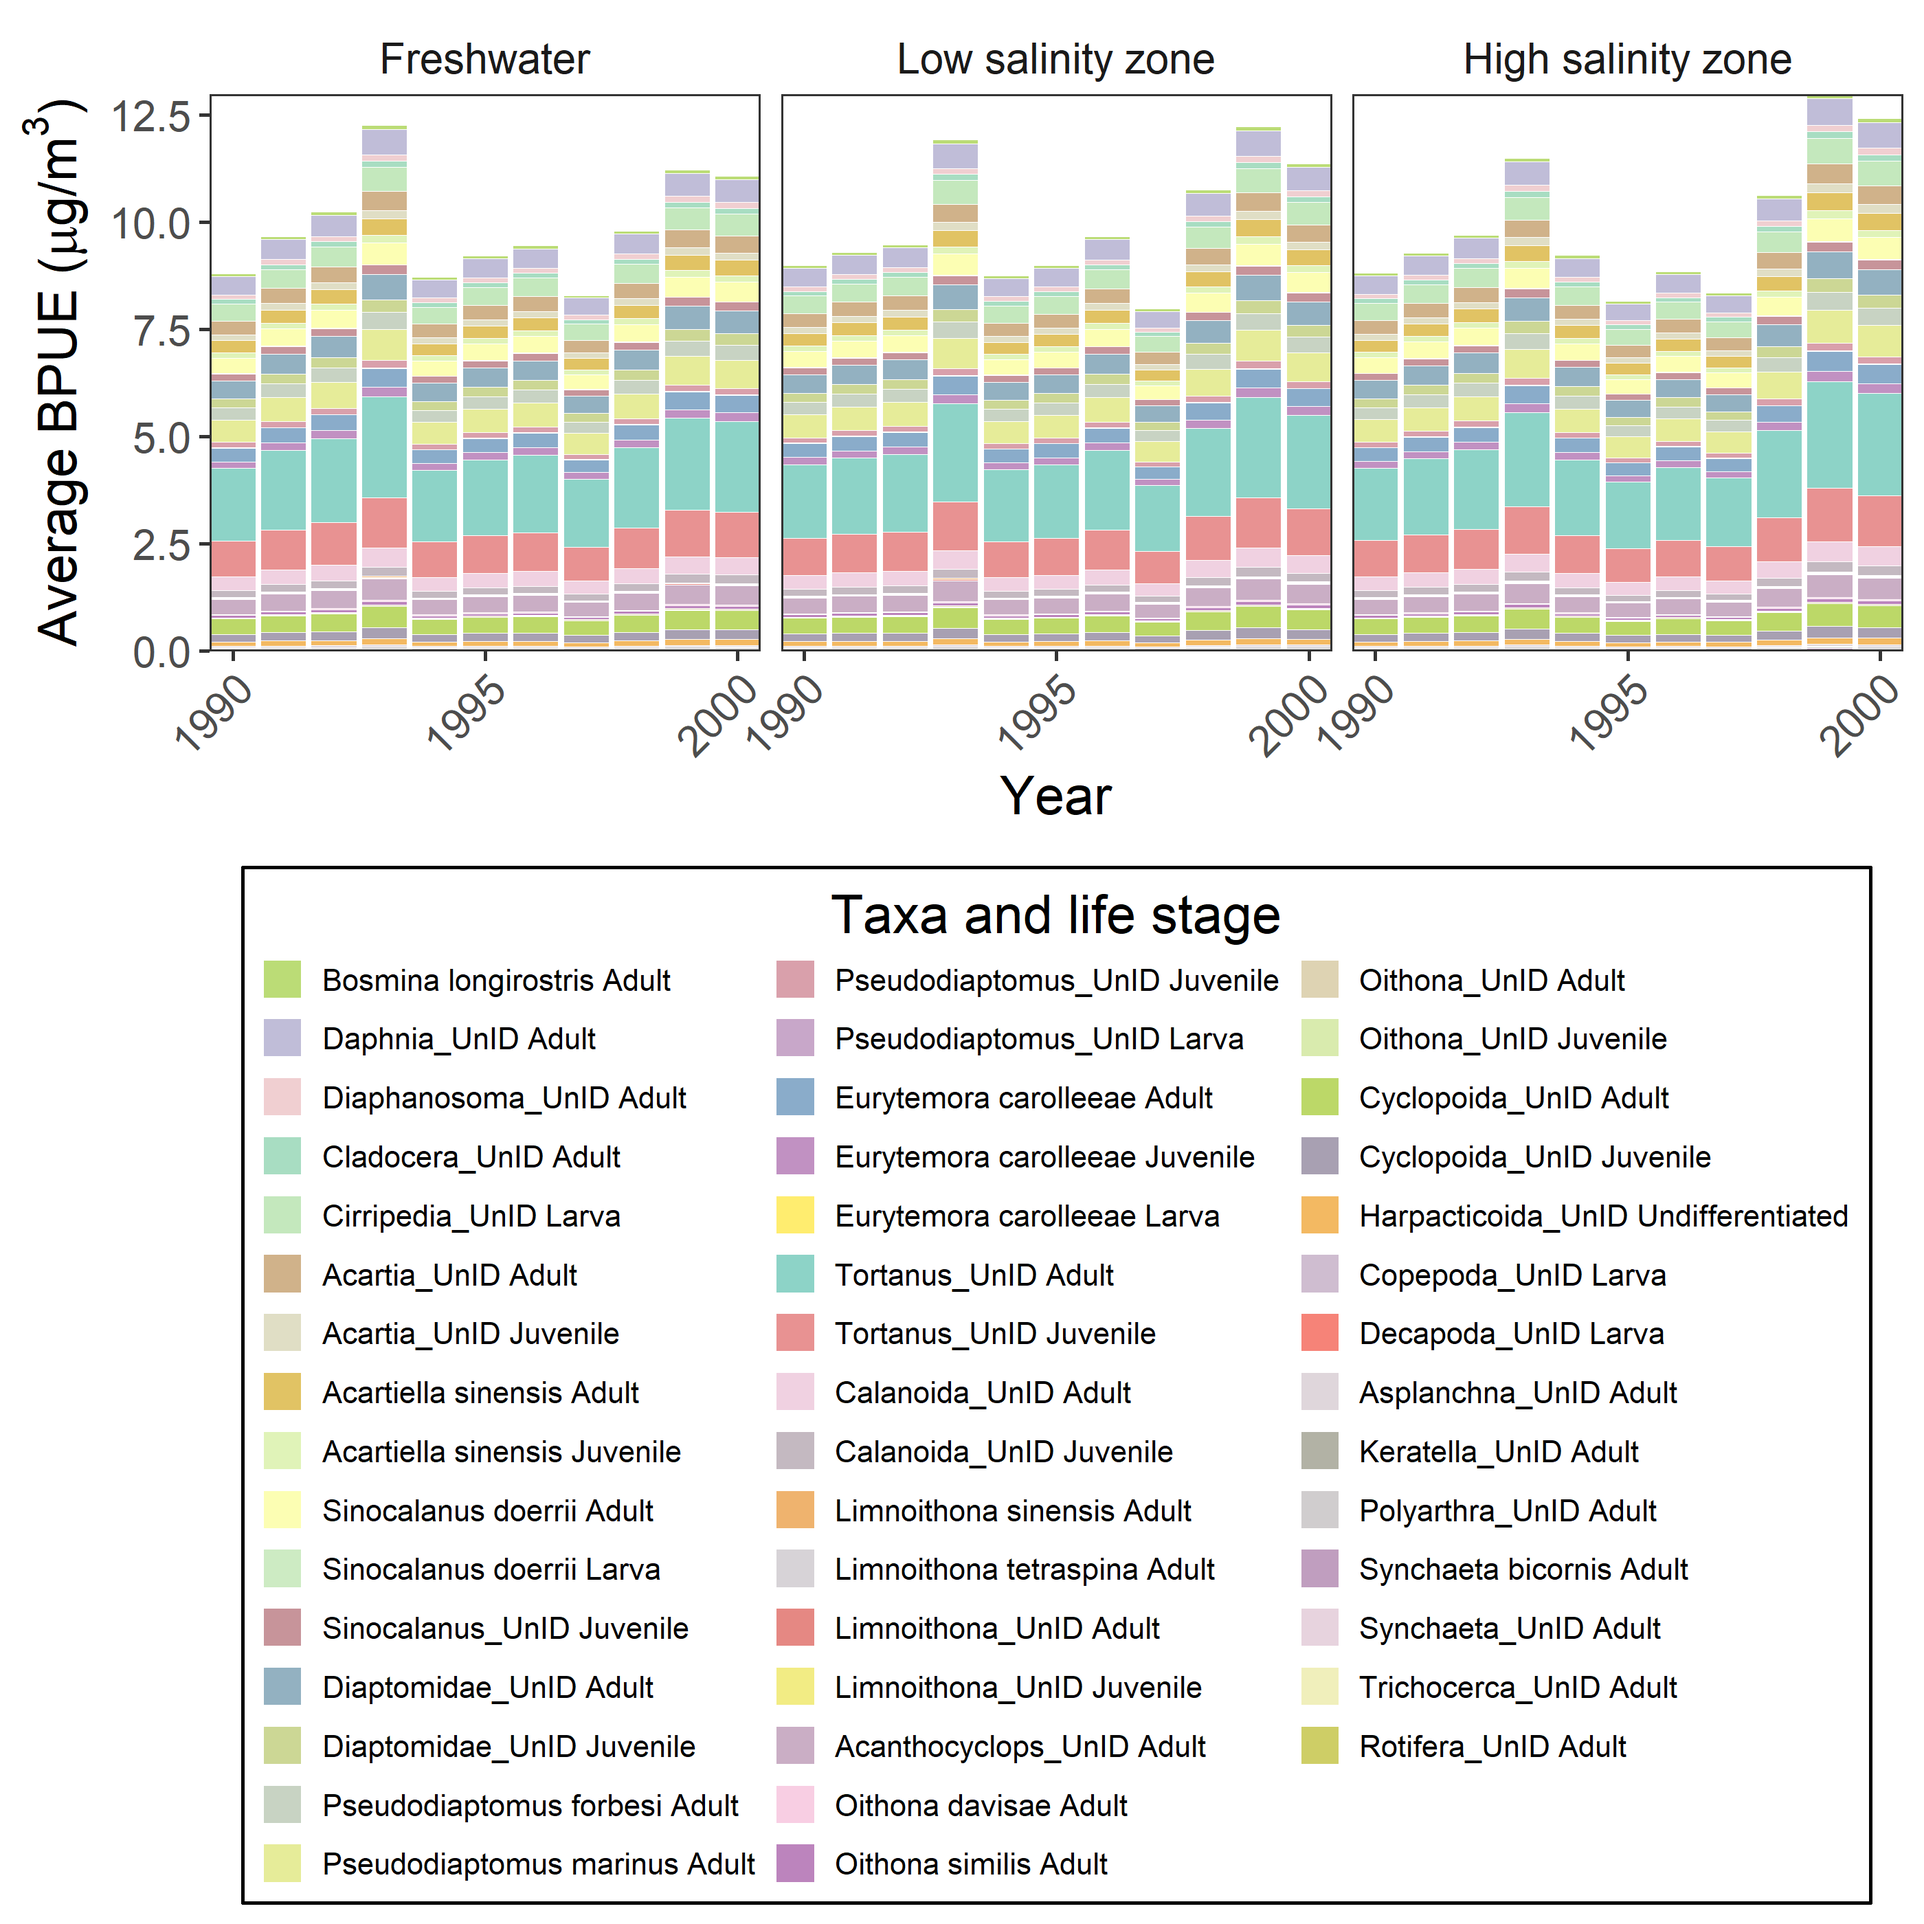
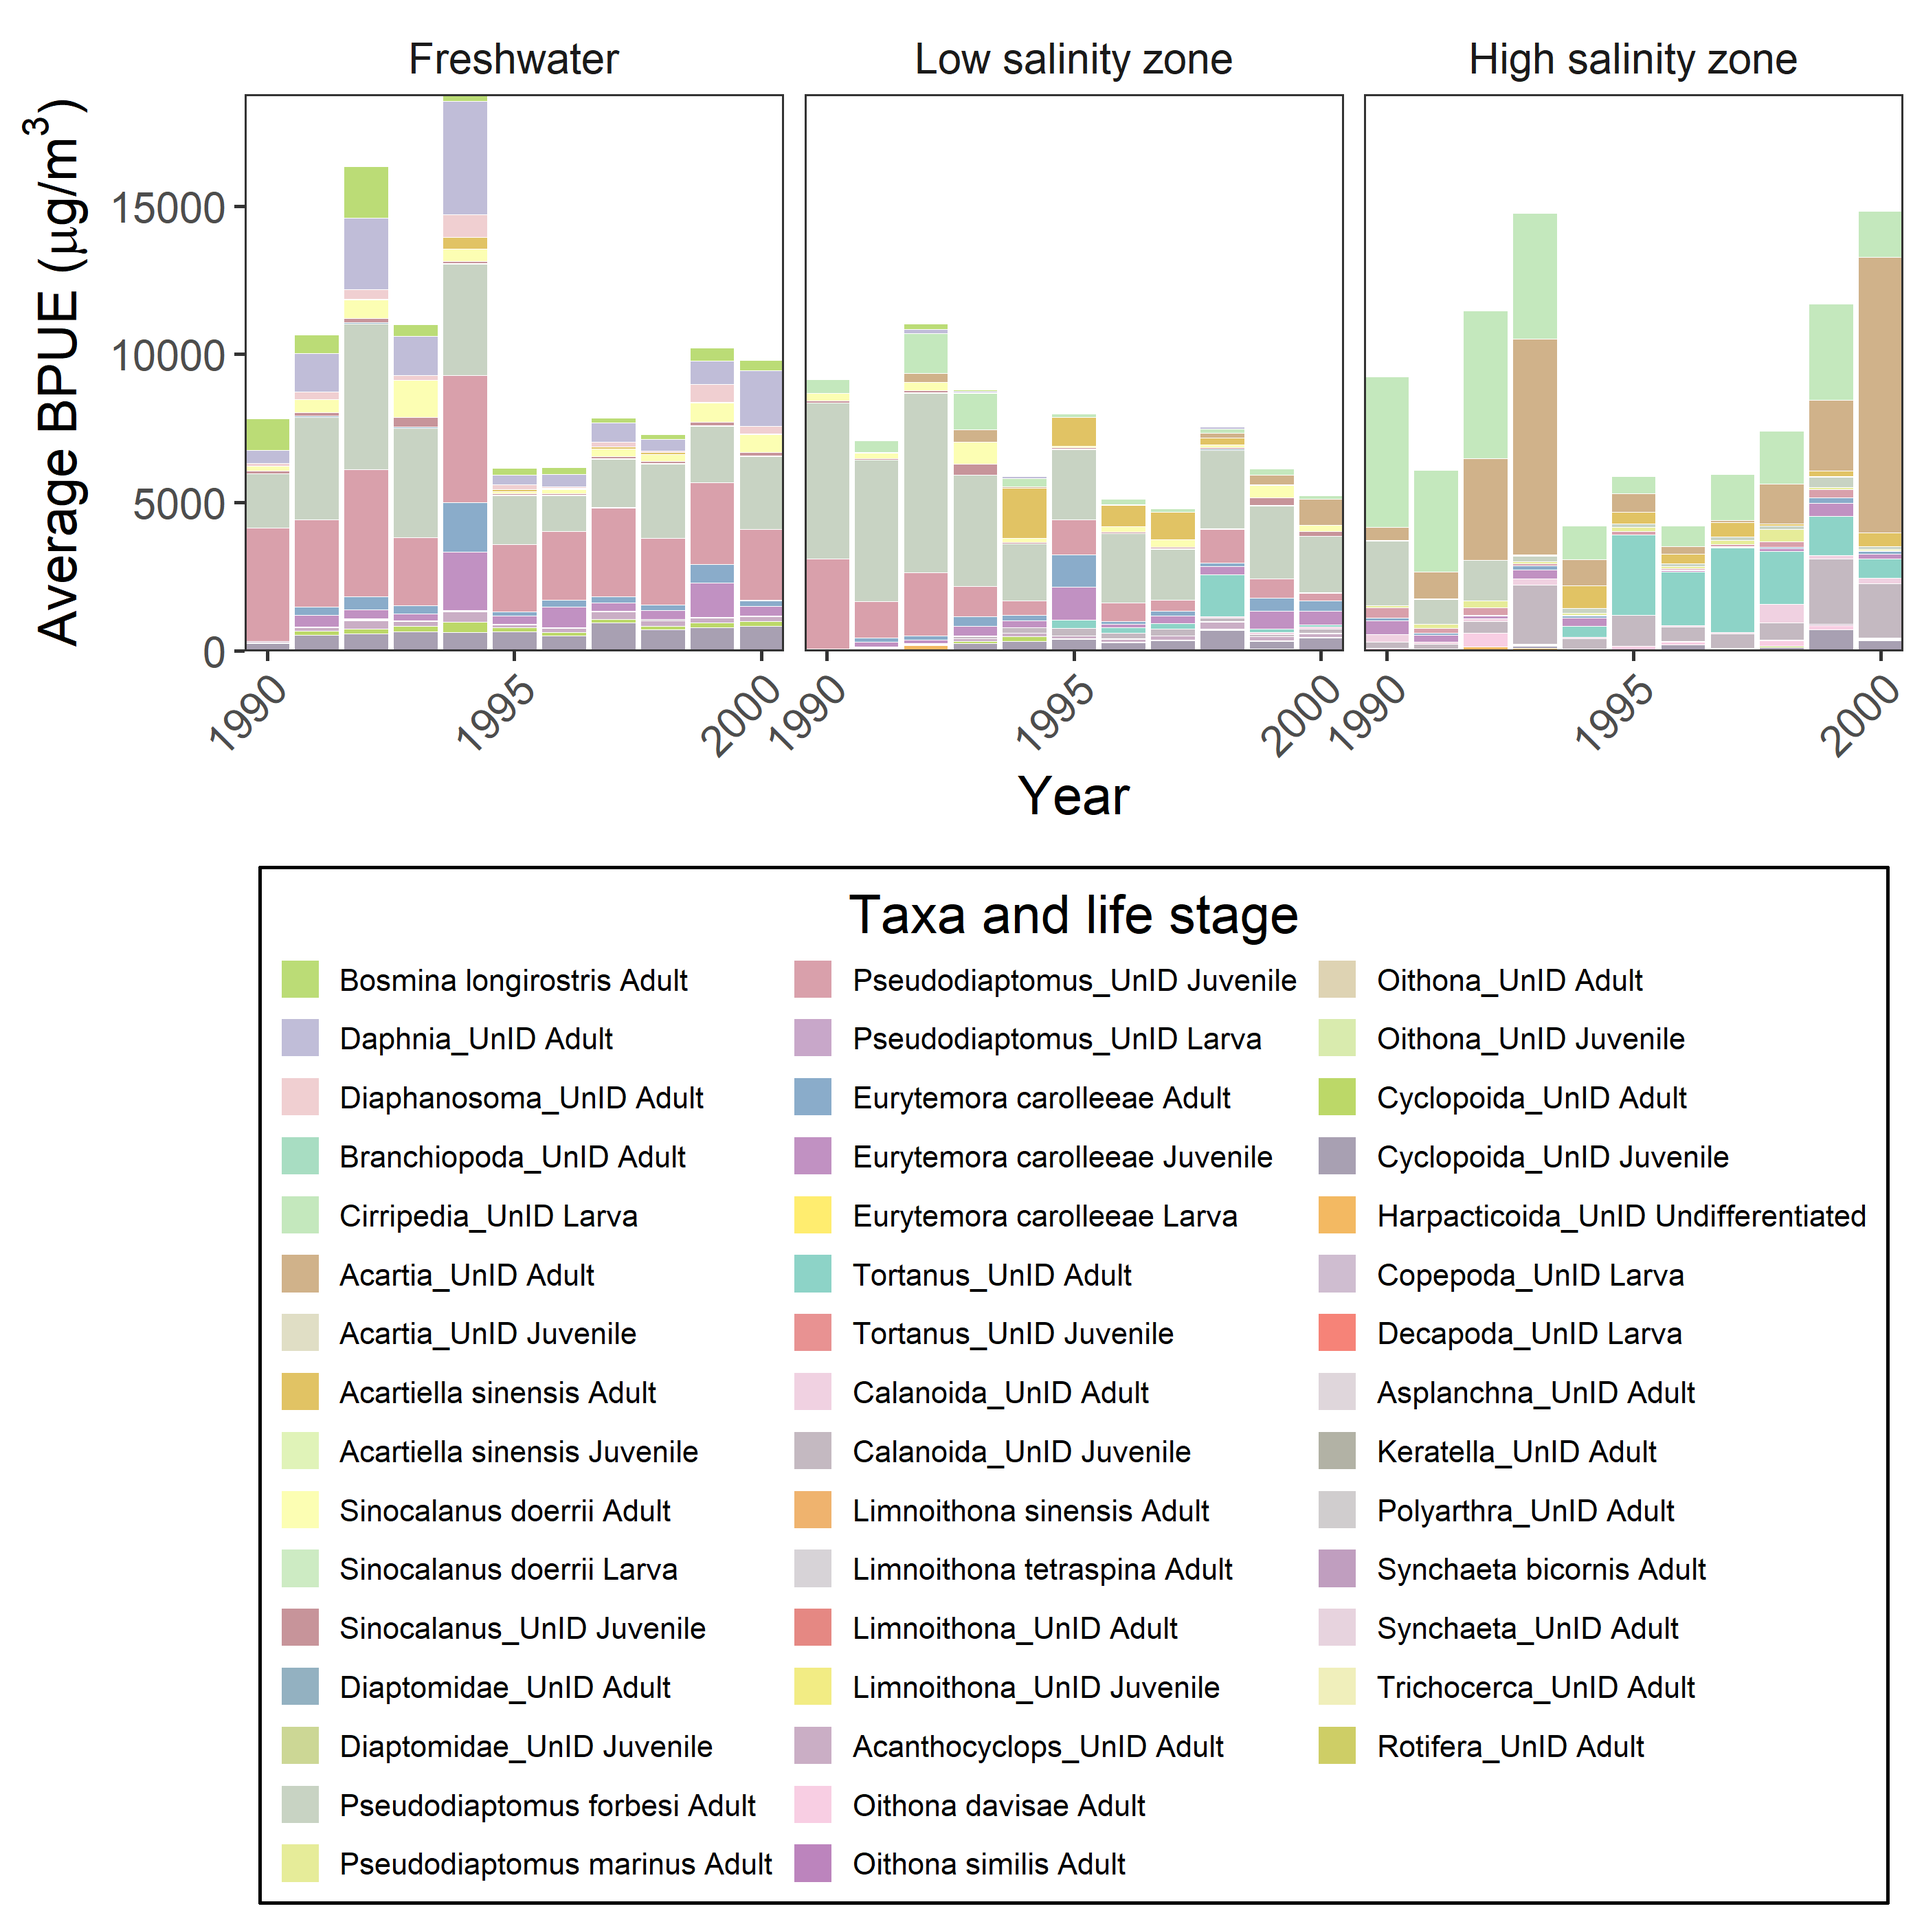
updating readme and GH actions

diff --git a/README.md b/README.md
@@ -6,7 +6,7 @@
 [![R build
 status](https://github.com/InteragencyEcologicalProgram/zooper/workflows/R-CMD-check/badge.svg)](https://github.com/InteragencyEcologicalProgram/zooper/actions)
 [![Codecov test
-coverage](https://codecov.io/gh/InteragencyEcologicalProgram/zooper/branch/master/graph/badge.svg)](https://codecov.io/gh/InteragencyEcologicalProgram/zooper?branch=master)
+coverage](https://codecov.io/gh/InteragencyEcologicalProgram/zooper/graph/badge.svg)](https://app.codecov.io/gh/InteragencyEcologicalProgram/zooper)
 [![DOI](https://zenodo.org/badge/DOI/10.5281/zenodo.7641064.svg)](https://doi.org/10.5281/zenodo.7641064)
 [![Data
 DOI](https://img.shields.io/badge/Data%20publication%20DOI-10.6073/pasta/8b646dfbeb625e308212a39f1e46f69b-blue.svg)](https://portal.edirepository.org/nis/mapbrowse?scope=edi&identifier=539)
@@ -170,12 +170,9 @@ MyZoops <- Zoopsynther(Data_type = "Community",
                        Size_class = "Meso", 
                        Date_range = c("1990-10-01", "2000-09-30"))
 #> [1] "No disclaimers here! Enjoy the clean data!"
-```
-
-``` r
 
 str(MyZoops)
-#> tibble [151,478 × 36] (S3: tbl_df/tbl/data.frame)
+#> tibble [151,478 × 35] (S3: tbl_df/tbl/data.frame)
 #>  $ Source      : chr [1:151478] "EMP" "EMP" "EMP" "EMP" ...
 #>  $ SizeClass   : chr [1:151478] "Meso" "Meso" "Meso" "Meso" ...
 #>  $ Volume      : num [1:151478] 10.6 10.6 10.6 10.6 10.6 ...
@@ -189,8 +186,8 @@ str(MyZoops)
 #>  $ Species     : chr [1:151478] NA NA "Acartiella sinensis" NA ...
 #>  $ Taxlifestage: chr [1:151478] "Acanthocyclops_UnID Adult" "Acartia_UnID Adult" "Acartiella sinensis Adult" "Asplanchna_UnID Adult" ...
 #>  $ SampleID    : chr [1:151478] "EMP NZEZ2 1994-03-21" "EMP NZEZ2 1994-03-21" "EMP NZEZ2 1994-03-21" "EMP NZEZ2 1994-03-21" ...
-#>  $ CPUE        : num [1:151478] 11.34 1.89 5.67 0 0 ...
-#>  $ BPUE        : num [1:151478] 0.3176 0.2821 0.252 0.0284 0.0567 ...
+#>  $ CPUE        : num [1:151478] 11.3 1.9 5.7 0 0 7.6 0 49.2 5.7 0 ...
+#>  $ BPUE        : num [1:151478] 37.97 5.67 15.2 0 0 ...
 #>  $ Undersampled: logi [1:151478] FALSE FALSE FALSE TRUE FALSE FALSE ...
 #>  $ Date        : POSIXct[1:151478], format: "1994-03-21" "1994-03-21" ...
 #>  $ Station     : chr [1:151478] "NZEZ2" "NZEZ2" "NZEZ2" "NZEZ2" ...
@@ -207,7 +204,6 @@ str(MyZoops)
 #>  $ Microcystis : chr [1:151478] NA NA NA NA ...
 #>  $ Year        : num [1:151478] 1994 1994 1994 1994 1994 ...
 #>  $ TurbidityFNU: num [1:151478] NA NA NA NA NA NA NA NA NA NA ...
-#>  $ AmphipodCode: chr [1:151478] NA NA NA NA ...
 #>  $ SalSurf     : num [1:151478] 0.644 0.644 0.644 0.644 0.644 ...
 #>  $ SalBott     : num [1:151478] 0.958 0.958 0.958 0.958 0.958 ...
 #>  $ Latitude    : num [1:151478] NA NA NA NA NA NA NA NA NA NA ...
@@ -249,7 +245,7 @@ MyZoops%>%
         legend.background = element_rect(color="black"), axis.text.x=element_text(angle=45, hjust=1))
 ```
 
-<img src="man/figures/README-plots-1.png" width="100%" />
+<img src="man/figures/README-plots-1.png" alt="" width="100%" />
 
 Here’s the same graph with biomass (although a few taxa were removed for
 which biomass conversions were not available)
@@ -282,7 +278,7 @@ MyZoops%>%
         legend.background = element_rect(color="black"), axis.text.x=element_text(angle=45, hjust=1))
 ```
 
-<img src="man/figures/README-plots2-1.png" width="100%" />
+<img src="man/figures/README-plots2-1.png" alt="" width="100%" />
 
 # Code of conduct
 
